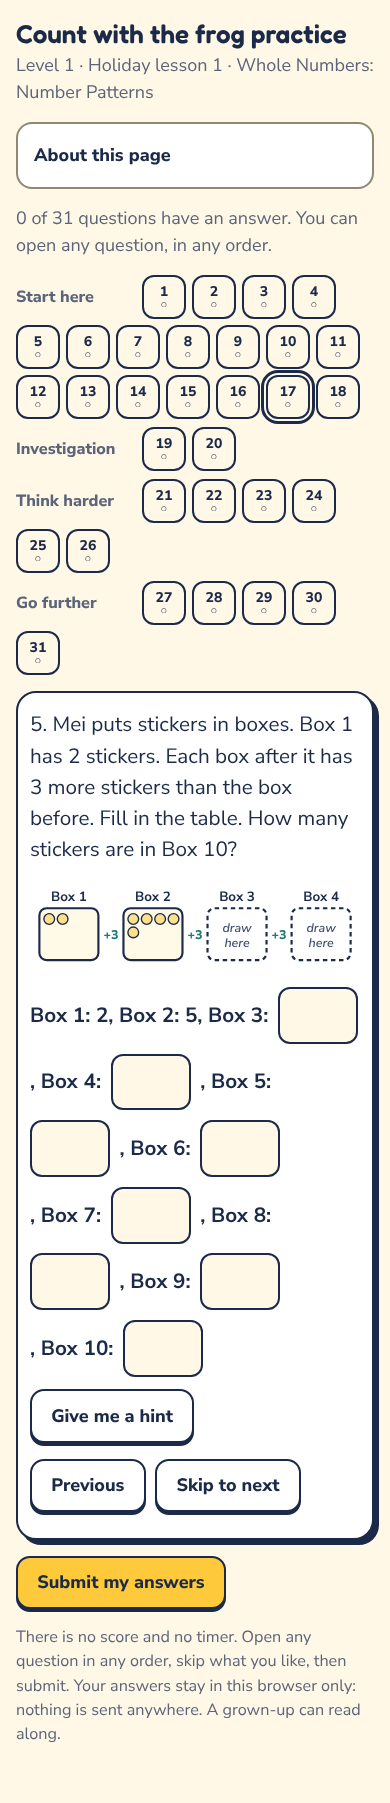
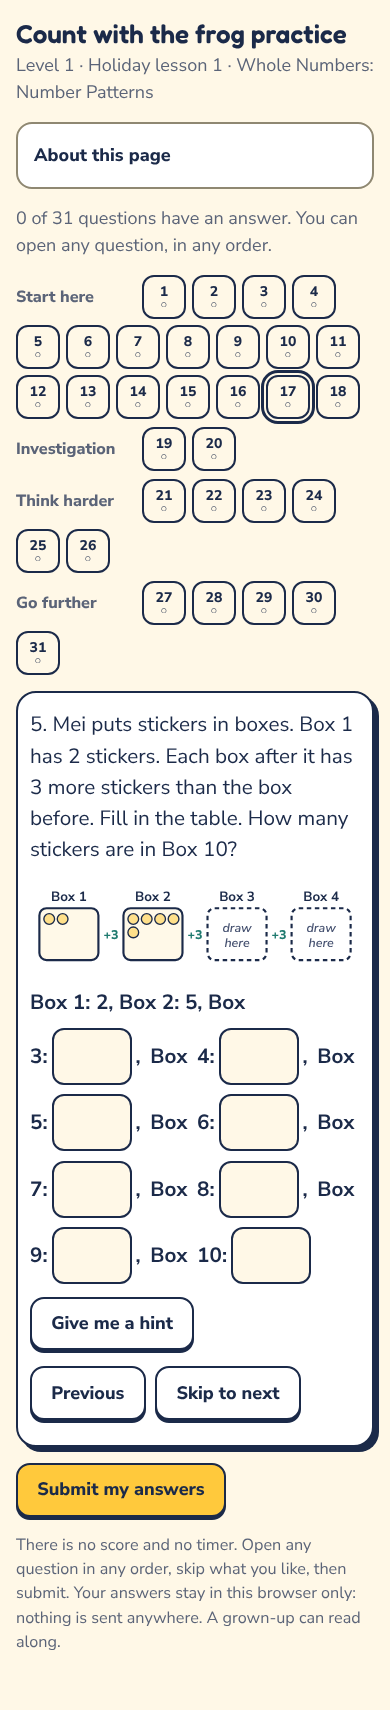
WIP: agents in progress
Claude-Session: https://claude.ai/code/session_01Wmstm4fTDLXm5Z35vo5Mv2

diff --git a/term/l1/runner/practice.js b/term/l1/runner/practice.js
@@ -39,7 +39,8 @@
   var WORDS = ['zero', 'one', 'two', 'three', 'four', 'five', 'six', 'seven', 'eight', 'nine', 'ten', 'eleven', 'twelve', 'thirteen', 'fourteen', 'fifteen', 'sixteen', 'seventeen', 'eighteen', 'nineteen'], TENS = ['', '', 'twenty', 'thirty', 'forty', 'fifty', 'sixty', 'seventy', 'eighty', 'ninety'];
   function numWord(n) { n = +n; if (n < 20) return WORDS[n]; if (n < 100) return TENS[Math.floor(n / 10)] + (n % 10 ? '-' + WORDS[n % 10] : ''); return String(n); }
   function ordinal(n) { n = +n; var r = n % 100, s = (r >= 11 && r <= 13) ? 'th' : ({ 1: 'st', 2: 'nd', 3: 'rd' }[n % 10] || 'th'); return n + s; }
-  function fill(str, env, keep) { return String(str).replace(/\{(\w+)(?:\|(\w+))?\}/g, function (m, k, f) { if (env[k] == null || (keep && keep.indexOf(k) > -1)) return m; var v = env[k]; if (Array.isArray(v)) v = v.join(', '); return f === 'ord' ? ordinal(v) : f === 'word' ? numWord(v) : f === 'usd' ? '$' + v : f === 'c' ? v + '\u00a2' : f === 'cents' ? v + (+v === 1 ? ' cent' : ' cents') : f === 'dollars' ? v + (+v === 1 ? ' dollar' : ' dollars') : f === 'hour' ? v + (+v === 1 ? ' hour' : ' hours') : f === 'min' ? v + (+v === 1 ? ' minute' : ' minutes') : f === 'mm' ? (+v < 10 ? '0' + (+v) : String(v)) : v; }); }
+  function fill(str, env, keep) { return String(str).replace(/\{(\w+)(?:\|(\w+))?\}/g, function (m, k, f) { if (env[k] == null || (keep && keep.indexOf(k) > -1)) return m; var v = env[k]; if (Array.isArray(v)) v = v.join(', '); return f === 'ord' ? ordinal(v) : f === 'word' ? numWord(v) : f === 'usd' ? '$' + v : f === 'c' ? v + '\u00a2' : f === 'cents' ? v + (+v === 1 ? ' cent' : ' cents') : f === 'dollars' ? v + (+v === 1 ? ' dollar' : ' dollars') : f === 'hour' ? v + (+v === 1 ? ' hour' : ' hours') : f === 'min' ? v + (+v === 1 ? ' minute' : ' minutes') : f === 'mm' ? (+v < 10 ? '0' + (+v) : String(v)) : (f && f.indexOf('pl_') === 0) ? plural(v, f.slice(3)) : v; }); }
+  function plural(v, w) { var irr = { child: 'children', person: 'people' }; return v + ' ' + (+v === 1 ? w : (irr[w] || w + 's')); }
   function variantOf(item, avoid) {
     var t = item.tpl, names = Object.keys(t.vars), env, tries = 0;
     do { env = {}; names.forEach(function (n) { var a = t.vars[n]; env[n] = a[Math.floor(Math.random() * a.length)]; }); tries++; } while (avoid && JSON.stringify(env) === avoid && tries < 12);

diff --git a/term/l1/tools/b_print.py b/term/l1/tools/b_print.py
@@ -32,12 +32,12 @@ body{font-size:18.5px!important}.qbox{padding:26px 16px 12px!important;margin:26
 .tight .qbox{margin:14px 4px 5px 4px!important;padding:18px 14px 4px!important}.tight .ln{height:25px!important}.tight .draw{height:78px!important}.tight .vis{width:240px!important}.tight .sub{margin-top:4px}
 .tight2 .qbox{margin:10px 4px 3px 4px!important;padding:16px 12px 2px!important}.tight2 .ln{height:22px!important}.tight2 .draw{height:64px!important}.tight2 .vis{width:200px!important}.tight2 .lbk .r{font-size:12px!important}.tight7.p5 .qt{font-size:17.7px}
 .tight3 .qbox{margin:8px 4px 2px 4px!important;padding:17px 10px 2px!important}.tight3 .qbox .qn,.tight4 .qbox .qn{top:-9px!important}.tight3 .ln{height:19px!important}.tight3 .lbk .r{font-size:13px!important}.tight4 .qbox{margin:6px 4px 1px 4px!important;padding:16px 10px 1px!important}.tight4 .ln{height:18px!important;margin-top:1px!important}.tight4 .lastln{display:none!important}.tight4 .draw{height:54px!important}.tight4 .q,.tight4 .sub{line-height:1.22}.tight4 .banner{margin:3px 0 2px!important}.tight3 .tf td{padding:4px 10px!important}.tight4 .tf td{padding:2px 10px!important}.tight3 .tf{margin:3px 4px}.tight4 .namer{padding:3px 10px!important;margin-bottom:4px!important}.tight4 .lh{margin-bottom:2px!important}.tight4>p[style*=italic]{font-size:17.7px!important;margin:0 0 1px!important;line-height:1.2}.tight4>p[style*=italic]+.qbox,.tight4>.choice+p+.qbox{margin-top:14px!important}.tight4>.choice{margin:0 0 3px!important;padding:2px 10px!important}.tight4 .sub{margin-top:2px}.tight5 .vis,.tight5 .hvis{zoom:.9}.tight6 .vis{zoom:.8}.tight7 .qt,.tight7 .sub{font-size:17.7px!important}.tight7 .banner{font-size:17.7px!important}
-.hm.t1 .qbox{margin:14px 4px 5px 4px!important;padding:16px 12px 4px!important}.hm.t1 .ln{height:24px!important}.hm.t2 .qbox{margin:10px 4px 3px 4px!important;padding:14px 12px 2px!important}.hm.t2 .ln{height:20px!important}.hm.t2 .q{font-size:17px}
+.hm.t1 .qbox{margin:14px 4px 5px 4px!important;padding:16px 12px 4px!important}.hm.t1 .ln{height:24px!important}.hm.t2 .qbox{margin:10px 4px 3px 4px!important;padding:14px 12px 2px!important}.hm.t2 .ln{height:20px!important}.hm.t2 .q{font-size:17.7px}
 .qbox .ln.rsn{height:24px!important;margin-top:1px!important;display:block!important}.stp.why{margin:4px 4px 0 6px;font-size:17.7px}.stp.why b{width:auto;white-space:nowrap}.stp.why .ln{margin-top:0!important}
 .sd{display:flex;gap:16px;align-items:flex-start}.sd .sdv{flex:none}.sd .sdv .vis{margin:4px 0 2px 4px!important}.sd .sdr{flex:1;min-width:0;padding-top:4px}.sd .sdr .sub:first-child{margin-top:2px}
 .page.hm.hm>p.hint.hint{margin-bottom:24px!important}
 .hm .qbox:has(svg.h100){display:block!important}
-.yn{display:inline-flex;gap:30px;margin-left:12px;font-family:Fredoka;font-weight:600;font-size:20px}.yn span{padding:1px 14px}
+.yn{display:inline-flex;gap:30px;margin-left:12px;font-family:Fredoka;font-weight:600;font-size:20px}.yn span{padding:1px 14px}.sub:has(.yn.long){flex-wrap:wrap}.yn.long{flex-basis:100%;margin:2px 0 0 38px;flex-wrap:wrap;gap:2px 8px}.yn.long span{white-space:nowrap;padding:1px 12px}
 .banner{break-after:avoid;display:block;width:fit-content}
 .vis.wide{width:100%!important;max-width:520px}.vis.wide.bm{max-width:430px}.vis.sm{width:175px!important}.visrow .vis.sm{width:175px!important;max-width:175px}.visrow .vis.md{width:235px!important;max-width:235px}.vis.md{width:250px!important}.vis.gw{width:370px!important}.p1 .vis.gw{width:330px!important}.visrow .vis.gw{width:calc(100%/var(--n) - 10px)!important;max-width:330px}.vis.nar{width:150px!important}.vis.nar.rt{width:235px!important}.vis.arr{width:250px!important}.vis.xw{width:100%!important;max-width:540px}.p1 .vis.xw{max-width:400px}.tight .vis.xw{max-width:420px}.tight2 .vis.xw{max-width:340px}
 .visrow{display:flex;gap:10px;align-items:flex-end;margin:4px 0}.visrow .vis{width:calc(100%/var(--n) - 10px)!important;max-width:330px;margin:2px 0!important}
@@ -45,7 +45,7 @@ body{font-size:18.5px!important}.qbox{padding:26px 16px 12px!important;margin:26
 .mcq{display:flex;align-items:flex-start;justify-content:space-between;margin:4px 6px}.mo{display:flex;gap:8px;margin:5px 0}.mn{font-weight:800;color:#1F7A6F}.mbr{border:2px solid #1B2A49;border-radius:6px;padding:4px 18px;background:#fff;font-size:20px;align-self:center}
 .stp{display:flex;align-items:flex-end;gap:10px;margin:6px 4px 0 6px;font-size:16px}.stp b{color:#1F7A6F;width:60px}.pins2{font-size:17.7px;color:#3B4A6B;margin:0 6px 4px}
 .keybox{border:2px solid #1B2A49;border-radius:6px;padding:6px 10px;margin:6px 0;background:#fff;break-inside:avoid;font-size:14px}
-.keybox .a{font-weight:800;color:#1F7A6F}\n.hbelow{display:flex;gap:10px;margin:4px 0 2px 6px;clear:both}.hvis{float:right;display:flex;gap:6px;margin:-2px 0 3px 8px}.hvis .hv{flex:none}.qbox:has(.hvis)::after{content:'';display:block;clear:both}.qbox:has(.hvis) .ln{margin-right:calc(var(--hw, 0mm) + 4mm)}.qbox:has(.hvis) .sub{margin-right:calc(var(--hw, 0mm) + 4mm)}.hm.t2 .hvis,.hm.t2 .hbelow{zoom:.9}.hm.t3 .hvis,.hm.t3 .hbelow{zoom:.8}.hm.t3 .qbox{margin:7px 4px 2px 4px!important;padding:12px 12px 1px!important}.hm.t3 .ln{height:17px!important}.hm.t3 .q{font-size:16px}.hm.t3 p{font-size:12.5px!important;margin:1px 0 3px!important}
+.keybox .a{font-weight:800;color:#1F7A6F}\n.hbelow{display:flex;gap:10px;margin:4px 0 2px 6px;clear:both}.hvis{float:right;display:flex;gap:6px;margin:-2px 0 3px 8px}.hvis .hv{flex:none}.qbox:has(.hvis)::after{content:'';display:block;clear:both}.qbox:has(.hvis) .ln{margin-right:calc(var(--hw, 0mm) + 4mm)}.qbox:has(.hvis) .sub{margin-right:calc(var(--hw, 0mm) + 4mm)}.hm.t2 .hvis,.hm.t2 .hbelow{zoom:.9}.hm.t3 .hvis,.hm.t3 .hbelow{zoom:.8}.hm.t3 .qbox{margin:7px 4px 2px 4px!important;padding:12px 12px 1px!important}.hm.t3 .ln{height:17px!important}.hm.t3 .q{font-size:17.7px}.hm.t3 p{font-size:12.5px!important;margin:1px 0 3px!important}.hm.t4 .hvis,.hm.t4 .hbelow{zoom:.72}.hm.t4 .qbox{margin:5px 4px 1px 4px!important;padding:11px 12px 0!important}.hm.t4 .ln{height:14px!important}.hm.t4 .q{font-size:17.7px}.hm.t4 p{font-size:11.5px!important;margin:1px 0 2px!important;line-height:1.2}.hm.t4 .qbox .qn{top:-8px!important}
 """
 
 
@@ -74,7 +74,8 @@ def choice_words(text, explicit=None):
 
 
 def choice_html(words):
-    return '<span class="yn">' + ''.join(f'<span>{E(w)}</span>' for w in words) + '</span>'
+    lng = ' long' if any(len(w.split()) >= 5 for w in words) else ''     # long options sit on their own line, never in narrow columns
+    return f'<span class="yn{lng}">' + ''.join(f'<span>{E(w)}</span>' for w in words) + '</span>'
 
 
 def _vis_html(v):
@@ -337,7 +338,7 @@ def build_print(d, pw):
         head = kp[:kp.index('<body>') + 6]
         render('kit', head + ''.join(kit_pages(d)) + '</body></html>', f + f' \u2022 Lesson {d["lesson_in_term"]} \u2022 Kit (print one side only)', f'L{n}_Kit_Pages.pdf')
     render('workbook_key', key_html(d), f + ' \u2022 Answer key (tutor and grown-ups)', f'L{n}_Workbook_Answer_Key.pdf')
-    for lvl in (0, 1, 2, 3):
+    for lvl in (0, 1, 2, 3, 4):
         d['_home_tight'] = lvl
         path = render('home', home_html(d), f + ' \u2022 Home practice', f'L{n}_Home_Practice.pdf')
         if pdfcheck.pdf_pages(path) == 1: break

diff --git a/term/l1/verify/l11_checks.py b/term/l1/verify/l11_checks.py
@@ -102,9 +102,10 @@ def _line_from_clues(front, back, mid):
 
 
 def _o_t1(e):
-    n = _line_from_clues(e['a'], e['b'], e['c'])
-    assert len(n) == 1
-    return n[0]
+    line = make_line(e['n']); ravi = list(reversed(line))[e['b'] - 1]
+    lilys = [c for c in line if line.index(c) < line.index(ravi) and between(line, c, ravi) == e['c']]
+    assert len(lilys) == 1
+    return place_front(line, lilys[0])
 
 
 def _o_t2(e):
@@ -127,7 +128,7 @@ def _o_g2(e):
 
 
 ORACLES = {'c1': _o_c1, 'c2': _o_c2, 'c4': _o_c4, 't1': _o_t1, 't2': _o_t2, 'g1': _o_g1, 'g2': _o_g2}
-BASE_ENV = {'c1': dict(n=6, k=3), 'c2': dict(k=5), 'c4': dict(n=8, f=3), 't1': dict(a=4, b=3, c=3), 't2': dict(a=3, b=9), 'g1': dict(n=13), 'g2': dict(n=13)}
+BASE_ENV = {'c1': dict(n=6, k=3), 'c2': dict(k=5), 'c4': dict(n=8, f=3), 't1': dict(n=11, b=2, c=4), 't2': dict(a=3, b=9), 'g1': dict(n=13), 'g2': dict(n=13)}
 
 
 def run(d):
@@ -178,7 +179,7 @@ def run(d):
     eq([ordinal(p) for p in pos6], ['2nd'], 'S6 only one place is between 1st and 3rd'); eq(T['S6']['val'], ['2nd'], 'S6 val')
     eq(in_front(seven, seven[4]), 4, 'S7'); eq(T['S7']['val'], [4], 'S7 val')
     # Think harder
-    eq(_line_from_clues(4, 3, 3), [10], 'T1'); eq(4 + 3 == 7 and 7 != 10, True, 'T1 Kumar is not correct'); eq(T['T1']['val'], ['No', 10], 'T1 val')
+    ln11 = make_line(11); rv = list(reversed(ln11))[1]; ly = [c for c in ln11 if ln11.index(c) < ln11.index(rv) and between(ln11, c, rv) == 4]; eq(len(ly), 1, 'T1 exactly one child is in front of Ravi with 4 between'); eq(place_front(ln11, rv), 10, 'T1 Ravi is 10th from the front'); eq(place_front(ln11, ly[0]), 5, 'T1 Lily is 5th from the front'); eq(10 - 4 == 6 and 6 != 5, True, 'T1 Kumar is not correct'); eq(T['T1']['val'], ['No', '5th'], 'T1 val')
     ln10 = make_line(10); eq(between(ln10, ln10[2], ln10[8]), 5, 'T2'); eq(T['T2']['val'], [5], 'T2 val')
     # T3: the door is on the right; the picture puts place 6 second from the left end
     seven_left_to_right = list(reversed(make_line(7)))               # place 7 at the far left, place 1 at the door on the right

diff --git a/term/l1/verify/l23_checks.py b/term/l1/verify/l23_checks.py
@@ -212,7 +212,7 @@ def run(d):
     eq(show(parse(H['H1']['text']) + 60), '10:30', 'H1'); eq(H['H1']['val'], '10:30', 'H1 val')
     eq(show(mins(5, 0) + 30), '5:30', 'H2'); eq(H['H2']['val'], '5:30', 'H2 val')
     eq(show(parse(H['H3']['text']) + 30), '4:15', 'H3'); eq(H['H3']['val'], '4:15', 'H3 val')
-    eq(show(parse('10:30 am') - 30, True), '10:00 am', 'H4 half an hour before 10:30'); eq(parse('11:00 am') == parse('10:30 am') + 30, True, 'H4 Ali went forward'); eq(H['H4']['val'], ['No', '10:00 am'], 'H4 val')
+    eq(parse('4:30 pm') - parse('4:00 pm'), 30, 'H4 Kumar reads half an hour'); eq(show(parse('6:00 pm') + 30, True), '6:30 pm', 'H4 Aisha stops half an hour after 6:00 pm'); eq(H['H4']['val'], '6:30', 'H4 val')
     nums = [72, 27, 70, 17]; eq(sorted(nums), [17, 27, 70, 72], 'H5 rewind'); eq(H['H5']['val'], [17, 27, 70, 72], 'H5 val'); eq(H['H5'].get('rewind_of'), 'Term 1 Lesson 3', 'H5 is the rewind item')
     eq(len([h for h in d['home_practice'] if h['tier'] == 'start']) >= 3, True, 'home has 3 Start here items')
     # ---------------------------------------------------------------- online practice, authored numbers
